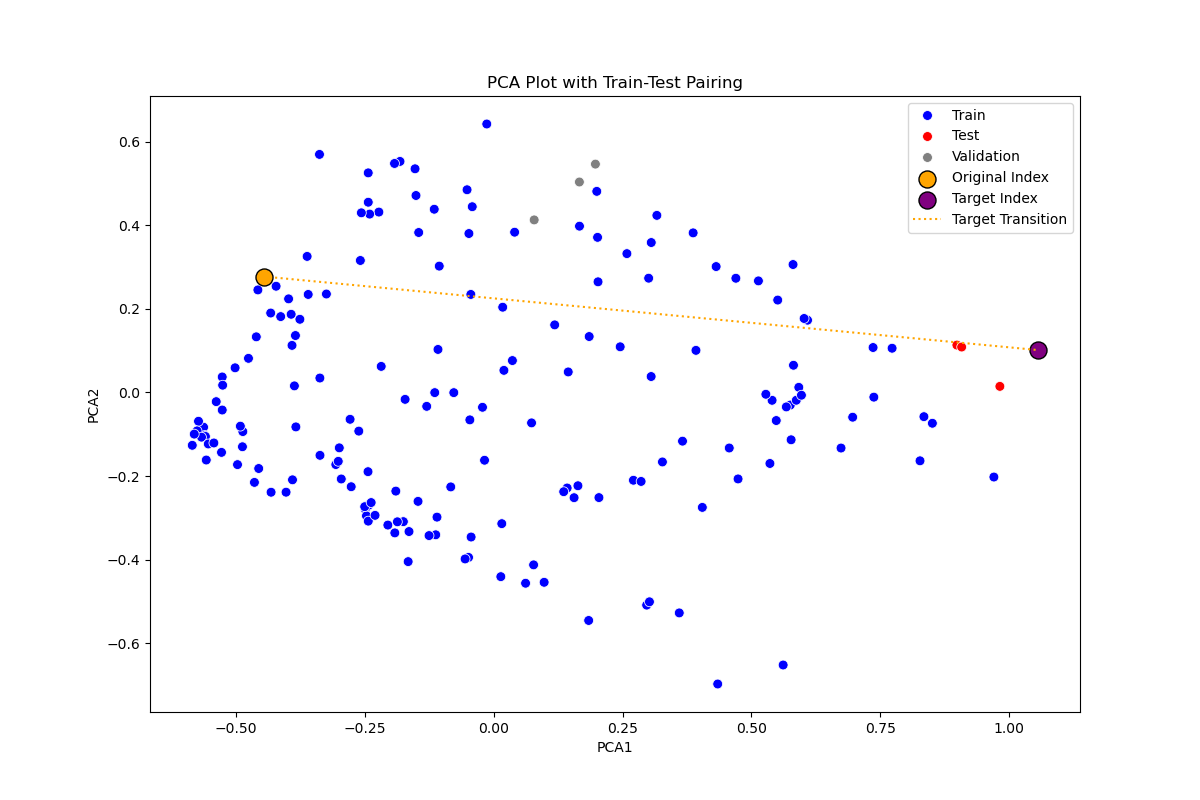
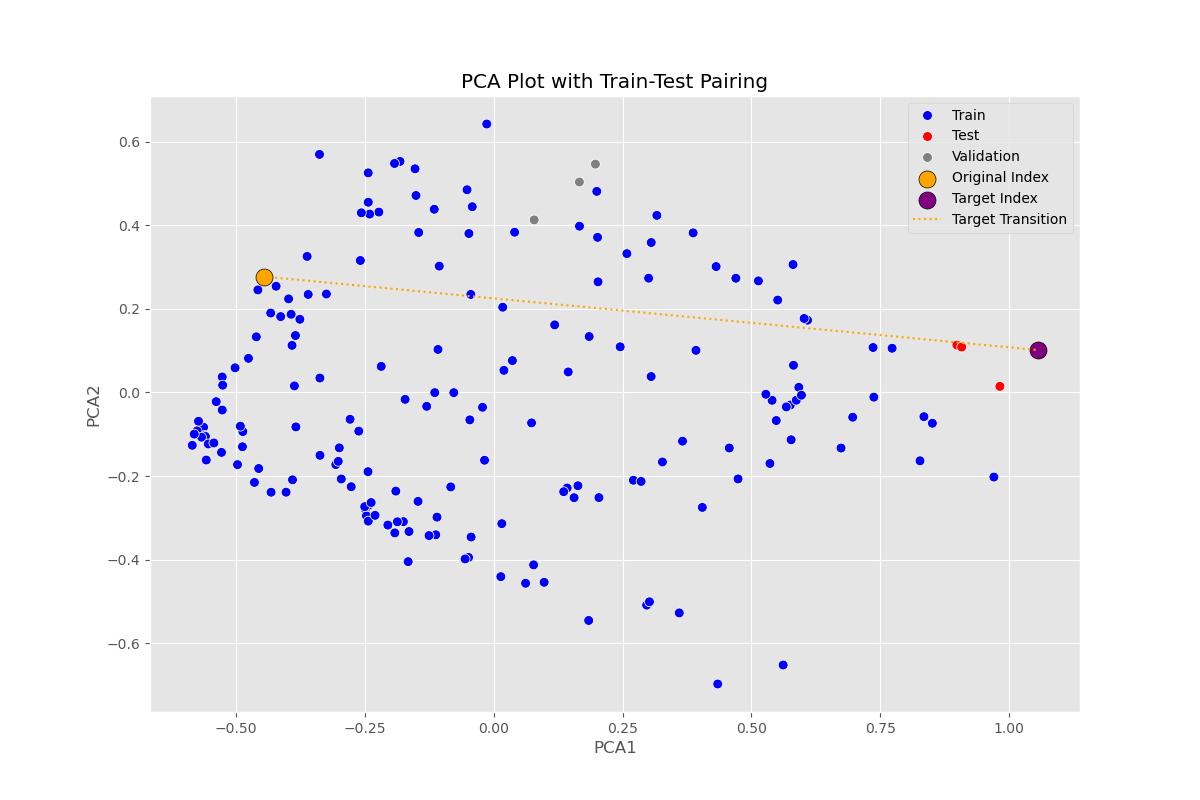
Finished full ts plots with features bar plot

diff --git a/src/data_transformations/generation_of_supervised_pairs.py b/src/data_transformations/generation_of_supervised_pairs.py
@@ -88,12 +88,12 @@ def create_train_val_test_split(
     X_test, y_test = generate_X_y_pairs_from_df(test_supervised_dataset)
     logger.info(
         f""" Generated X, y pairs for training, test and validation. With shapes:
-            X_training: {X_train.shape}         
-            y_training: {y_train.shape}         
-            X_validation: {X_validation.shape}         
-            y_validation: {y_validation.shape}         
-            X_test: {X_test.shape}         
-            y_test: {y_test.shape}         
+            X_training: {X_train.shape}
+            y_training: {y_train.shape}
+            X_validation: {X_validation.shape}
+            y_validation: {y_validation.shape}
+            X_test: {X_test.shape}
+            y_test: {y_test.shape}
     """
     )
     return (
@@ -259,9 +259,9 @@ def generate_supervised_dataset_from_original_and_target_dist(
     delta_columns = [col for col in dataset.columns if col.startswith("delta_")]
 
     # Define groups of delta columns
-    load_columns = [col for col in delta_columns if col.startswith("delta_grid-load")]
-    loss_columns = [col for col in delta_columns if col.startswith("delta_grid-loss")]
-    temp_columns = [col for col in delta_columns if col.startswith("delta_grid-temp")]
+    load_columns = [col for col in delta_columns if col.startswith("delta_grid1-load")]
+    loss_columns = [col for col in delta_columns if col.startswith("delta_grid1-loss")]
+    temp_columns = [col for col in delta_columns if col.startswith("delta_grid1-temp")]
 
     grouped_columns = [load_columns, loss_columns, temp_columns]
 
@@ -287,50 +287,50 @@ def generate_supervised_dataset_from_original_and_target_dist(
 def get_col_names_original_target_delta():
     ORIGNIAL_COLS = [
         "original_index",
-        "original_grid-load_trend-strength",
-        "original_grid-load_trend-slope",
-        "original_grid-load_trend-linearity",
-        "original_grid-load_seasonal-strength",
-        "original_grid-loss_trend-strength",
-        "original_grid-loss_trend-slope",
-        "original_grid-loss_trend-linearity",
-        "original_grid-loss_seasonal-strength",
-        "original_grid-temp_trend-strength",
-        "original_grid-temp_trend-slope",
-        "original_grid-temp_trend-linearity",
-        "original_grid-temp_seasonal-strength",
+        "original_grid1-load_trend-strength",
+        "original_grid1-load_trend-slope",
+        "original_grid1-load_trend-linearity",
+        "original_grid1-load_seasonal-strength",
+        "original_grid1-loss_trend-strength",
+        "original_grid1-loss_trend-slope",
+        "original_grid1-loss_trend-linearity",
+        "original_grid1-loss_seasonal-strength",
+        "original_grid1-temp_trend-strength",
+        "original_grid1-temp_trend-slope",
+        "original_grid1-temp_trend-linearity",
+        "original_grid1-temp_seasonal-strength",
     ]
 
     TARGET_COLS = [
         "target_index",
-        "target_grid-load_trend-strength",
-        "target_grid-load_trend-slope",
-        "target_grid-load_trend-linearity",
-        "target_grid-load_seasonal-strength",
-        "target_grid-loss_trend-strength",
-        "target_grid-loss_trend-slope",
-        "target_grid-loss_trend-linearity",
-        "target_grid-loss_seasonal-strength",
-        "target_grid-temp_trend-strength",
-        "target_grid-temp_trend-slope",
-        "target_grid-temp_trend-linearity",
-        "target_grid-temp_seasonal-strength",
+        "target_grid1-load_trend-strength",
+        "target_grid1-load_trend-slope",
+        "target_grid1-load_trend-linearity",
+        "target_grid1-load_seasonal-strength",
+        "target_grid1-loss_trend-strength",
+        "target_grid1-loss_trend-slope",
+        "target_grid1-loss_trend-linearity",
+        "target_grid1-loss_seasonal-strength",
+        "target_grid1-temp_trend-strength",
+        "target_grid1-temp_trend-slope",
+        "target_grid1-temp_trend-linearity",
+        "target_grid1-temp_seasonal-strength",
     ]
 
     DELTA_COLS = [
         "delta_index",
-        "delta_grid-load_trend-strength",
-        "delta_grid-load_trend-slope",
-        "delta_grid-load_trend-linearity",
-        "delta_grid-load_seasonal-strength",
-        "delta_grid-loss_trend-strength",
-        "delta_grid-loss_trend-slope",
-        "delta_grid-loss_trend-linearity",
-        "delta_grid-loss_seasonal-strength",
-        "delta_grid-temp_trend-strength",
-        "delta_grid-temp_trend-slope",
-        "delta_grid-temp_trend-linearity",
-        "delta_grid-temp_seasonal-strength",
+        "delta_grid1-load_trend-strength",
+        "delta_grid1-load_trend-slope",
+        "delta_grid1-load_trend-linearity",
+        "delta_grid1-load_seasonal-strength",
+        "delta_grid1-loss_trend-strength",
+        "delta_grid1-loss_trend-slope",
+        "delta_grid1-loss_trend-linearity",
+        "delta_grid1-loss_seasonal-strength",
+        "delta_grid1-temp_trend-strength",
+        "delta_grid1-temp_trend-slope",
+        "delta_grid1-temp_trend-linearity",
+        "delta_grid1-temp_seasonal-strength",
     ]
 
     return [*ORIGNIAL_COLS, *TARGET_COLS, *DELTA_COLS]
@@ -338,33 +338,33 @@ def get_col_names_original_target_delta():
 
 def get_col_names_original_target():
     ORIGINAL_NAMES = [
-        "original_grid-load_trend-strength",
-        "original_grid-load_trend-slope",
-        "original_grid-load_trend-linearity",
-        "original_grid-load_seasonal-strength",
-        "original_grid-loss_trend-strength",
-        "original_grid-loss_trend-slope",
-        "original_grid-loss_trend-linearity",
-        "original_grid-loss_seasonal-strength",
-        "original_grid-temp_trend-strength",
-        "original_grid-temp_trend-slope",
-        "original_grid-temp_trend-linearity",
-        "original_grid-temp_seasonal-strength",
+        "original_grid1-load_trend-strength",
+        "original_grid1-load_trend-slope",
+        "original_grid1-load_trend-linearity",
+        "original_grid1-load_seasonal-strength",
+        "original_grid1-loss_trend-strength",
+        "original_grid1-loss_trend-slope",
+        "original_grid1-loss_trend-linearity",
+        "original_grid1-loss_seasonal-strength",
+        "original_grid1-temp_trend-strength",
+        "original_grid1-temp_trend-slope",
+        "original_grid1-temp_trend-linearity",
+        "original_grid1-temp_seasonal-strength",
     ]
 
     TARGET_NAMES = [
-        "target_grid-load_trend-strength",
-        "target_grid-load_trend-slope",
-        "target_grid-load_trend-linearity",
-        "target_grid-load_seasonal-strength",
-        "target_grid-loss_trend-strength",
-        "target_grid-loss_trend-slope",
-        "target_grid-loss_trend-linearity",
-        "target_grid-loss_seasonal-strength",
-        "target_grid-temp_trend-strength",
-        "target_grid-temp_trend-slope",
-        "target_grid-temp_trend-linearity",
-        "target_grid-temp_seasonal-strength",
+        "target_grid1-load_trend-strength",
+        "target_grid1-load_trend-slope",
+        "target_grid1-load_trend-linearity",
+        "target_grid1-load_seasonal-strength",
+        "target_grid1-loss_trend-strength",
+        "target_grid1-loss_trend-slope",
+        "target_grid1-loss_trend-linearity",
+        "target_grid1-loss_seasonal-strength",
+        "target_grid1-temp_trend-strength",
+        "target_grid1-temp_trend-slope",
+        "target_grid1-temp_trend-linearity",
+        "target_grid1-temp_seasonal-strength",
     ]
 
     return ORIGINAL_NAMES, TARGET_NAMES

diff --git a/src/plots/full_time_series.py b/src/plots/full_time_series.py
@@ -1,29 +1,104 @@
 import matplotlib.pyplot as plt
 import seaborn as sns
+from src.utils.logging_config import logger
+import pandas as pd
 
 
 def plot_time_series_for_all_uts(
     original_mts,
     target_mts,
     transformed_mts,
+    original_mts_features,
+    target_mts_features,
+    transformed_mts_features,
 ):
     # Original, target and transformed MTS have columns which corresponds to one uts. The index is time.
     # Use seaborn to plot each uts as a row in the figure where the columns are original, target and transformed MTS.
 
     num_uts = len(original_mts.columns)
-    fig, axes = plt.subplots(nrows=num_uts, ncols=3, figsize=(15, 5 * num_uts))
+    fig, axes = plt.subplots(nrows=num_uts, ncols=4, figsize=(30, 5 * num_uts))
     uts_names = original_mts.columns
 
+    transformed_mts_features = transformed_mts_features.squeeze()
+
     for i, uts_name in enumerate(uts_names):
-        sns.lineplot(x=original_mts.index, y=original_mts[uts_name], ax=axes[i, 0])
-        sns.lineplot(x=target_mts.index, y=target_mts[uts_name], ax=axes[i, 1])
+        # Plot the time series
         sns.lineplot(
-            x=transformed_mts.index, y=transformed_mts[uts_name], ax=axes[i, 2]
+            x=original_mts.index, y=original_mts[uts_name], ax=axes[i, 0], color="red"
+        )
+        sns.lineplot(
+            x=target_mts.index, y=target_mts[uts_name], ax=axes[i, 1], color="green"
+        )
+        sns.lineplot(
+            x=transformed_mts.index,
+            y=transformed_mts[uts_name],
+            ax=axes[i, 2],
+            color="blue",
         )
 
         axes[i, 0].set_title(f"{uts_name} - Original")
         axes[i, 1].set_title(f"{uts_name} - Target")
         axes[i, 2].set_title(f"{uts_name} - Transformed")
+
+        # Dictionary to store grouped feature values
+        grouped_features = {}
+
+        possible_features = original_mts_features.index[
+            original_mts_features.index.str.contains(uts_name)
+        ]
+
+        for feature_name in possible_features:
+            # Extract base feature name (everything after first '_')
+            base_name = "_".join(feature_name.split("_")[1:])
+
+            # Initialize if not already present
+            if base_name not in grouped_features:
+                grouped_features[base_name] = {
+                    "original": [],
+                    "target": [],
+                    "transformed": [],
+                }
+
+            # Append feature values
+            grouped_features[base_name]["original"].append(
+                original_mts_features.loc[feature_name]
+            )
+            grouped_features[base_name]["target"].append(
+                target_mts_features.loc[feature_name]
+            )
+            grouped_features[base_name]["transformed"].append(
+                transformed_mts_features.loc[feature_name]
+            )
+
+        # Convert to a format suitable for seaborn
+        data = []
+        for base_name, values in grouped_features.items():
+            data.append(
+                {
+                    "Feature": base_name,
+                    "Type": "original",
+                    "Value": sum(values["original"]),
+                }
+            )
+            data.append(
+                {"Feature": base_name, "Type": "target", "Value": sum(values["target"])}
+            )
+            data.append(
+                {
+                    "Feature": base_name,
+                    "Type": "transformed",
+                    "Value": sum(values["transformed"]),
+                }
+            )
+
+        df = pd.DataFrame(data)
+
+        # Plot
+        sns.barplot(x="Feature", y="Value", hue="Type", data=df, ax=axes[i, 3])
+        plt.xticks(rotation=45)  # Rotate labels for better visibility
+        plt.title("Grouped Feature Values")
+
+        axes[i, 3].set_title(f"{uts_name} - Features")
 
     plt.tight_layout()
     return fig

diff --git a/src/main.py b/src/main.py
@@ -5,6 +5,9 @@ import pandas as pd
 import numpy as np
 import random
 import torch
+import matplotlib.pyplot as plt
+
+plt.style.use("ggplot")
 
 
 # Parse the configuration file path
@@ -95,7 +98,7 @@ logger.info("Successfully generated multivariate time series dataset")
 sp = config["stl_args"]["series_periodicity"]
 mts_feature_df = generate_feature_dataframe(
     data=mts_dataset, series_periodicity=sp, dataset_size=dataset_size
-).sample(frac=0.25)
+)
 
 logger.info("Successfully generated feature dataframe")
 
@@ -118,48 +121,6 @@ logger.info("Successfully generated MTS PCA space")
 # Generate train, vlaidation and test splits
 ORIGINAL_NAMES, TARGET_NAMES = get_col_names_original_target()
 
-FEATURES_NAMES = [
-    "original_index",
-    "original_grid-load_trend-strength",
-    "original_grid-load_trend-slope",
-    "original_grid-load_trend-linearity",
-    "original_grid-load_seasonal-strength",
-    "original_grid-loss_trend-strength",
-    "original_grid-loss_trend-slope",
-    "original_grid-loss_trend-linearity",
-    "original_grid-loss_seasonal-strength",
-    "original_grid-temp_trend-strength",
-    "original_grid-temp_trend-slope",
-    "original_grid-temp_trend-linearity",
-    "original_grid-temp_seasonal-strength",
-    "delta_grid-load_trend-strength",
-    "delta_grid-load_trend-slope",
-    "delta_grid-load_trend-linearity",
-    "delta_grid-load_seasonal-strength",
-    "delta_grid-loss_trend-strength",
-    "delta_grid-loss_trend-slope",
-    "delta_grid-loss_trend-linearity",
-    "delta_grid-loss_seasonal-strength",
-    "delta_grid-temp_trend-strength",
-    "delta_grid-temp_trend-slope",
-    "delta_grid-temp_trend-linearity",
-    "delta_grid-temp_seasonal-strength",
-]
-
-TARGET_NAMES = [
-    "target_grid-load_trend-strength",
-    "target_grid-load_trend-slope",
-    "target_grid-load_trend-linearity",
-    "target_grid-load_seasonal-strength",
-    "target_grid-loss_trend-strength",
-    "target_grid-loss_trend-slope",
-    "target_grid-loss_trend-linearity",
-    "target_grid-loss_seasonal-strength",
-    "target_grid-temp_trend-strength",
-    "target_grid-temp_trend-slope",
-    "target_grid-temp_trend-linearity",
-    "target_grid-temp_seasonal-strength",
-]
 (
     X_train,
     y_train,
@@ -173,7 +134,7 @@ TARGET_NAMES = [
 ) = create_train_val_test_split(
     mts_pca_df,
     mts_feature_df,
-    FEATURES_NAMES,
+    ORIGINAL_NAMES,
     TARGET_NAMES,
     SEED,
     output_dir=output_dir,
@@ -256,7 +217,7 @@ transformed_features = pd.DataFrame(
     [transformed_features], columns=sampled_predicted_features.columns
 )
 
-uts_names = ["grid-load", "grid-loss", "grid-temp"]
+uts_names = ["grid1-load", "grid1-loss", "grid1-temp"]
 
 uts_wise_pca_fig = plot_pca_for_each_uts_with_transformed(
     mts_features_df=mts_feature_df,
@@ -274,15 +235,13 @@ transformed_mts = pd.DataFrame(
     {name: transformed_mts[i] for i, name in enumerate(original_mts.columns)}
 )
 
-logger.info(f"Original MTS: {original_mts}")
-logger.info(f"Target MTS: {target_mts}")
-logger.info(f"Transformed MTS: {transformed_mts}")
-
-
 full_time_series_fig = plot_time_series_for_all_uts(
     original_mts=original_mts,
     target_mts=target_mts,
     transformed_mts=transformed_mts,
+    original_mts_features=original_mts_features,
+    target_mts_features=target_mts_features,
+    transformed_mts_features=transformed_features,
 )
 full_time_series_fig.savefig(os.path.join(output_dir, "full_time_series.png"))
 logger.info("Successfully generated full time series plots")

diff --git a/src/utils/generate_dataset.py b/src/utils/generate_dataset.py
@@ -10,7 +10,7 @@ def generate_feature_dataframe(data, series_periodicity, dataset_size):
         data, series_periodicity=series_periodicity, dataset_size=dataset_size
     )
 
-    ts_indices_to_names = {0: "grid-load", 1: "grid-loss", 2: "grid-temp"}
+    ts_indices_to_names = {0: "grid1-load", 1: "grid1-loss", 2: "grid1-temp"}
 
     data = []
     for idx in range(features.shape[0]):
